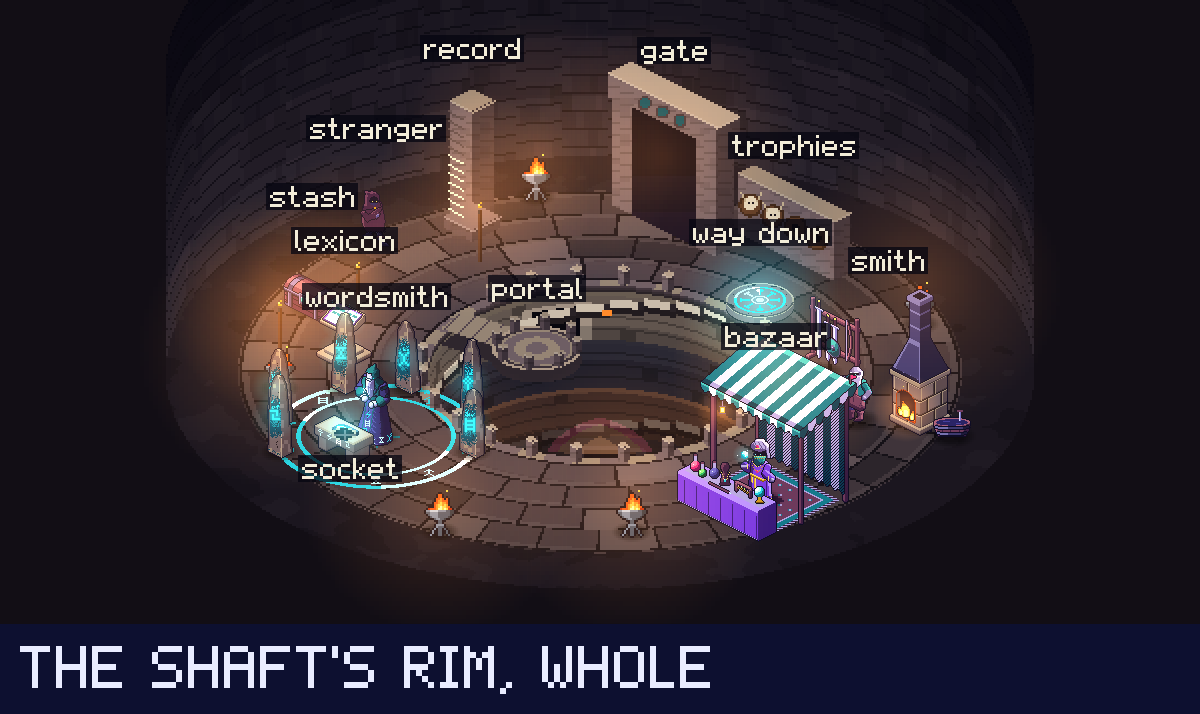
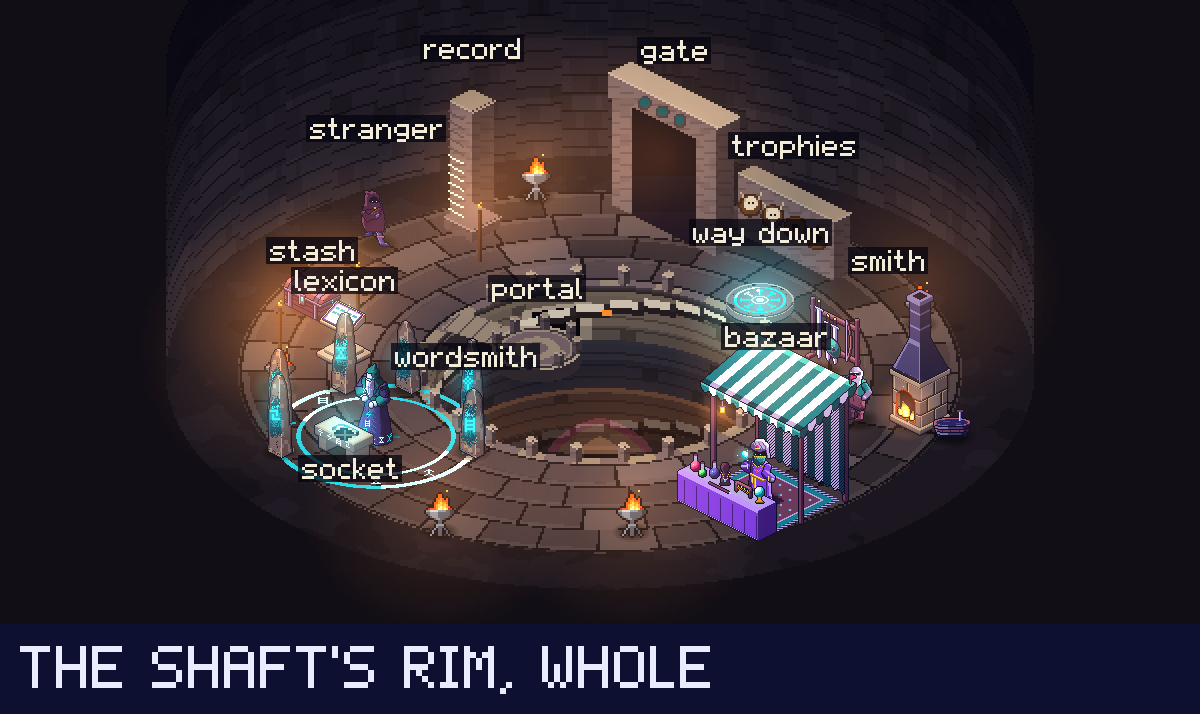
Endless town, step 2: the whole picture's words each over its own station
Claude-Session: https://claude.ai/code/session_013AACgPRU4FucfYyJnBGYM1

Changed region(s): [[0.2158, 0.2465, 0.4008, 0.4314], [0.3083, 0.4622, 0.4625, 0.5238]]

diff --git a/src/dev/preview_shaft_rim.ts b/src/dev/preview_shaft_rim.ts
@@ -498,13 +498,13 @@ export function scene(heroAt: [number, number] | null): { cv: HTMLCanvasElement;
   stand('wordsmith', c([wx, wy]));
   stand('runeSlab', c([wx, wy + 1]));
   RUNE_STONES.forEach(([dx, dy], i) => stand('runeStone', c([wx + dx, wy + dy]), i, 0.3));
-  label(wx + 0.5, wy + 0.5, 62, 'wordsmith');
+  label(wx + 2.4, wy - 0.4, 40, 'wordsmith');
   label(wx + 1.6, wy + 2.4, 0, 'socket');
   // the Lexicon, the stash, the stranger
   stand('lexicon', c(LAYOUT.lexicon));
-  label(LAYOUT.lexicon[0] + 0.5, LAYOUT.lexicon[1] + 0.5, 50, 'lexicon');
+  label(LAYOUT.lexicon[0] + 0.5, LAYOUT.lexicon[1] + 0.5, 30, 'lexicon');
   stand('stash', c(LAYOUT.stash));
-  label(LAYOUT.stash[0] + 0.5, LAYOUT.stash[1] + 0.5, 22, 'stash');
+  label(LAYOUT.stash[0] + 0.5, LAYOUT.stash[1] + 0.5, 8, 'stash');
   stand('stranger', c(LAYOUT.stranger));
   label(LAYOUT.stranger[0] + 0.5, LAYOUT.stranger[1] + 0.5, 50, 'stranger');
   // the waypoint at the stair's head: the way down
